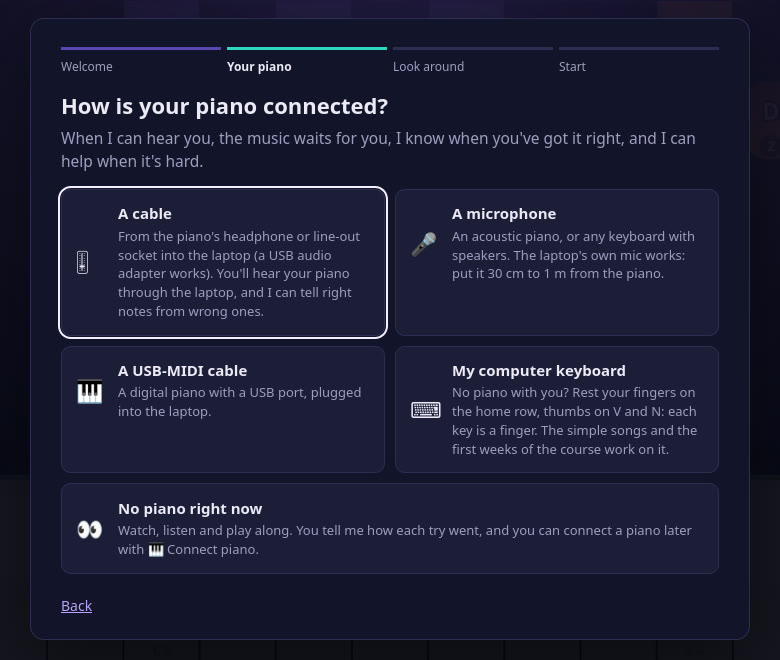
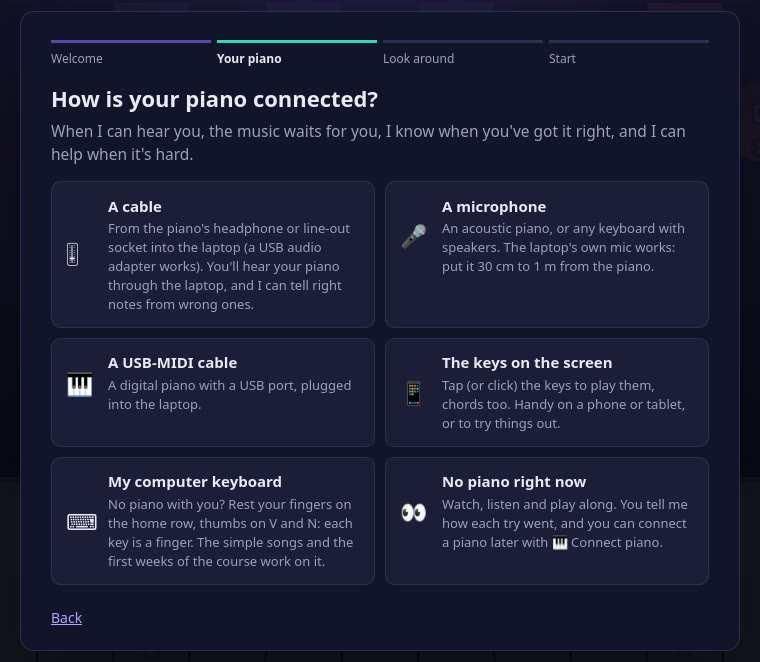
Piano Trainer: phones and tablets, and the welcome on first visit
A paragraph and a phone screenshot for the small-screen layout and the
keys on the screen; the welcome screenshot retaken with its sixth way
to connect.

diff --git a/src/content/projects/piano-trainer/index.md b/src/content/projects/piano-trainer/index.md
@@ -25,13 +25,17 @@ The tour above was made by the app itself. A script drives it headless one frame
 
 ## Getting started
 
-A first visit opens a short welcome tour. It asks how your piano is connected, checks that it can hear you by having you play middle C, puts a spotlight on each part of the screen while the teacher explains it, and then takes you straight into the course or into the song library.
+The first time you open it, a short welcome tour appears straight away. It asks how your piano is connected, checks that it can hear you by having you play middle C, puts a spotlight on each part of the screen while the teacher explains it, and then takes you straight into the course or into the song library.
 
-![The welcome tour asking how the piano is connected: a cable, a microphone, a USB-MIDI cable, the computer keyboard, or no piano right now](./welcome.jpg)
+![The welcome tour asking how the piano is connected: a cable, a microphone, a USB-MIDI cable, the keys on the screen, the computer keyboard, or no piano right now](./welcome.jpg)
 
 No piano to hand? The computer keyboard works too. The home row becomes two hands in a five-finger position, thumbs on V and N, and each key is a finger, so it plays whatever the fingering gives that finger. That limits it to songs whose hands stay in one place: eleven in the library and about half of the course's exercises, including nearly all of the first two weeks. For the rest, you play along and tell the teacher how it went.
 
 ![Ode to Joy with the computer keyboard: a keycap on each piano key it plays, A S D F V for the left hand and N J K L ; for the right](./keyboard.jpg)
+
+It works on a phone or a tablet too. On a small screen the controls fold into one row and a ⋯ panel, the teacher's panel moves under the notes (or beside them, with the phone on its side), and the keyboard narrows to the hand you're playing so the keys are big enough to tap. The keys on the screen can be the piano, chords included, or the phone's own microphone can listen from the piano's music stand.
+
+![Piano Trainer on a phone: the welcome tour, and Ode to Joy with the right hand's keys big enough to tap](./phone.jpg)
 
 ## A teacher that listens
 
